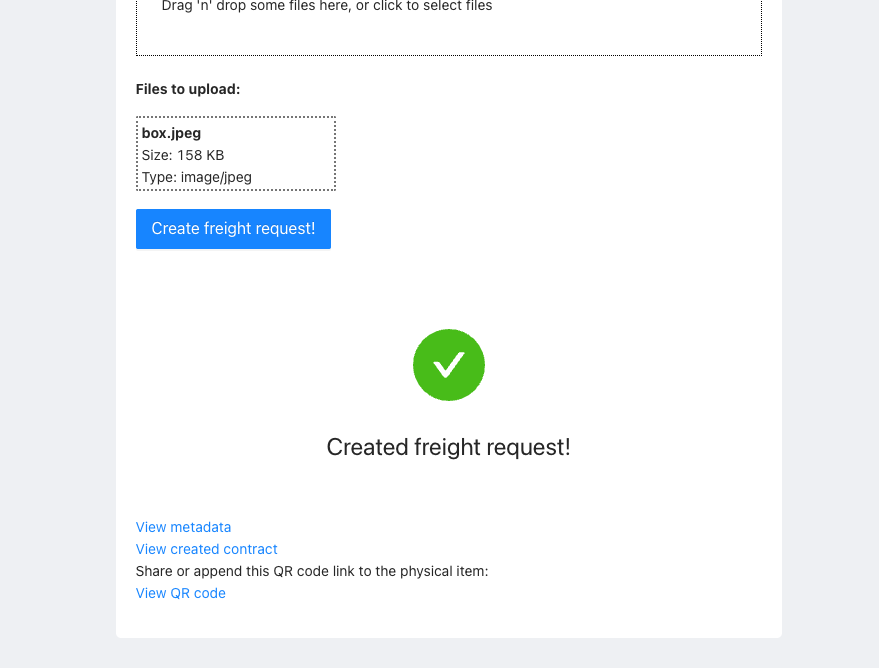
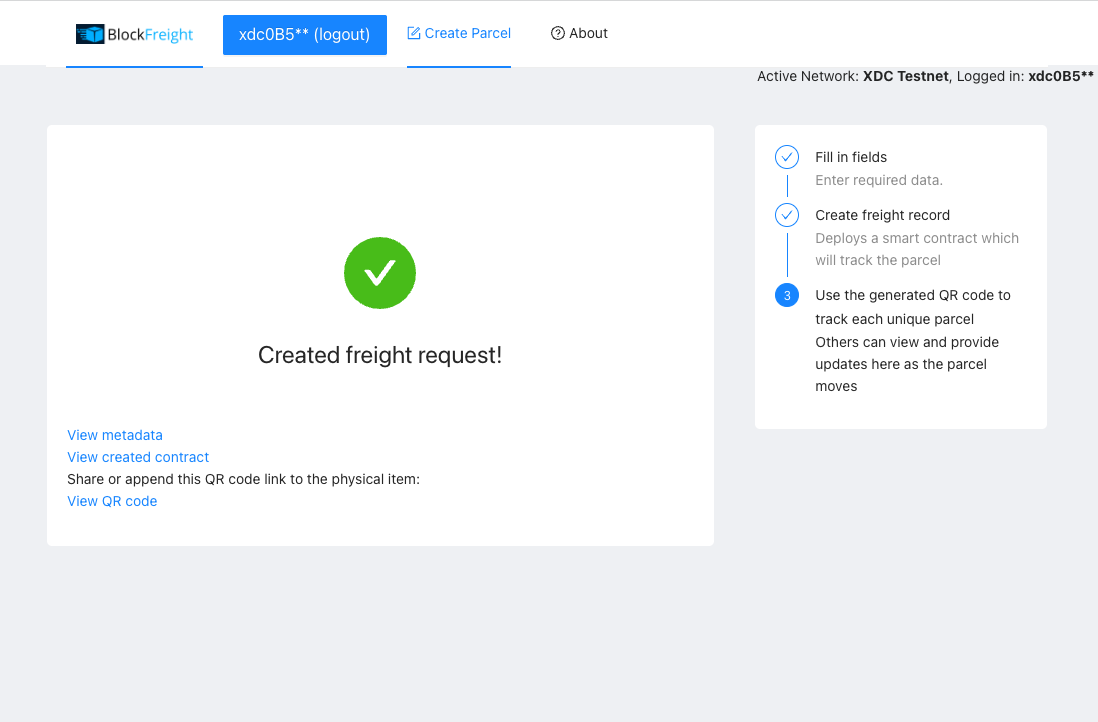
update images and update page

diff --git a/src/components/Lookup.js b/src/components/Lookup.js
@@ -1,4 +1,4 @@
-import { Button, Result, Spin } from 'antd'
+import { Button, Card, Result, Spin } from 'antd'
 import TextArea from 'antd/lib/input/TextArea'
 import React, { useState, useEffect } from 'react'
 import { useParams } from 'react-router'
@@ -13,7 +13,7 @@ export default function Lookup({ walletLoading, connect, address, provider }) {
 
   const [error, setError] = useState()
   const [result, setResult] = useState()
-  const [loading, setLoading] = useState(false)
+  const [loading, setLoading] = useState(true)
   const [parcel, setParcel] = useState()
   const [location, setLocation] = useState()
   const [data, setData] = useState({ ...EXAMPLE_FORM })
@@ -42,7 +42,7 @@ export default function Lookup({ walletLoading, connect, address, provider }) {
 
       const res = await recordParcelEvent(provider.getSigner(), contract, data.notes, location?.latitude, location?.longitude)
       res['contractUrl'] = contractUrl
-      console.log('udpate result', res)
+      console.log('contract update result', res)
       setResult(res)
     } catch (e) {
       console.error('Error recording update', e)
@@ -59,7 +59,7 @@ export default function Lookup({ walletLoading, connect, address, provider }) {
       const res = await getMetadata(ipfsUrl(itemId))
       setParcel(res?.data || {})
     } catch (e) {
-      console.error('error fetching record', e)
+      console.error('Error fetching record', e)
       let { message } = e
       setError(humanError(message))
     } finally {
@@ -79,7 +79,7 @@ export default function Lookup({ walletLoading, connect, address, provider }) {
     return <Spin size="large" className='boxed' />
   }
 
-  if (error) {
+  if (error || !parcel) {
     return <div className='error-text boxed'>
       {error}
     </div>
@@ -88,13 +88,12 @@ export default function Lookup({ walletLoading, connect, address, provider }) {
   const isReady = !loading && address && provider;
 
   return (
-    <div className='boxed'>
+    <Card title={<h3 className='centered success-text bold'>Parcel Details</h3>} bordered={false}>
       {!result && <div>
-        {parcel && <div>
-          <h5 className='success-text'>Found Parcel</h5>
+        <div>
           <h2>{parcel.title}</h2>
-          {parcel.notes && <p>{parcel.notes}</p>}
-        </div>}
+          {parcel.notes && <p>Notes: {parcel.notes}</p>}
+        </div>
         {/* {location && JSON.stringify(location)} */}
         {parcel?.files && <span>
           <h3>Original Image(s):</h3>
@@ -120,6 +119,7 @@ export default function Lookup({ walletLoading, connect, address, provider }) {
 
         <br />
         <br />
+        <p>Your current location will be uploaded with your update.</p>
         {isReady && <Button type="primary" size="large" loading={loading} onClick={recordUpdate}>
           Submit update
         </Button>}
@@ -127,6 +127,7 @@ export default function Lookup({ walletLoading, connect, address, provider }) {
         {!address && <span className="web3-button">
           <Button onClick={connect} disabled={loading} loading={walletLoading}>Connect Wallet</Button>
         </span>}
+        {error && <p className='error-text'>{error}</p>}
       </div>}
       {result && <Result status="success" title="Event recorded!"
         subTitle={<span>TX: <a target="_blank" href={getExplorerUrl(result.hash, true)}>{result.hash}</a></span>}
@@ -137,7 +138,6 @@ export default function Lookup({ walletLoading, connect, address, provider }) {
             View updated contract
           </Button>,
         ]} />}
-
-    </div>
+    </Card>
   )
 }

diff --git a/src/components/CreateFreight.js b/src/components/CreateFreight.js
@@ -11,7 +11,7 @@ const { Step } = Steps;
 
 function CreateFreight({ address, provider }) {
 
-  const [data, setData] = useState({ ...EXAMPLE_FORM });
+  const [data, setData] = useState({});
   const [error, setError] = useState();
   const [loading, setLoading] = useState(false);
   const [result, setResult] = useState();
@@ -47,7 +47,7 @@ function CreateFreight({ address, provider }) {
     const body = { ...data };
 
     // Format files for upload.
-    const files = body.files.map((x) => {
+    const files = (body || []).files.map((x) => {
       return x;
     });
 
@@ -97,6 +97,10 @@ function CreateFreight({ address, provider }) {
           <div className="create-form white boxed">
             {!result && (<div>
               <h2>Create new freight request</h2>
+              <a href="#" onClick={e => {
+                e.preventDefault();
+                setData({ ...EXAMPLE_FORM });
+              }}>Set example data</a>
               <br />
 
               <h3 className="vertical-margin">Freight request name:</h3>
@@ -120,7 +124,7 @@ function CreateFreight({ address, provider }) {
               {/* TODO: add configurable amount of items */}
               <h3 className="vertical-margin">Optional: Upload image(s) of parcel</h3>
               <FileDrop
-                files={data.files}
+                files={data.files || []}
                 setFiles={(files) => updateData("files", files)}
               />
 

diff --git a/src/constants/index.js b/src/constants/index.js
@@ -7,8 +7,8 @@ export const IS_LOCAL = hostname.indexOf("localhost") !== -1
 export const COVALENT_KEY = process.env.REACT_APP_COVALENT_KEY; // covalent api key
 
 export const EXAMPLE_FORM = {
-    'title': 'Package 12345',
-    'notes': '',
+    'name': 'Package delivery from Boston to San Francisco',
+    'notes': 'This package is a delivery to our SF warehouse. It contains a new laptop and a new phone. Please be careful with it. REF #123',
     'files': []
 }
 export const WEB3_PROJECT_ID = process.env.REACT_APP_WC_ID || 'ec17b7971a950170d6c5710eb878ba9b';
@@ -28,10 +28,10 @@ export const CHAIN_OPTIONS = {
     name: "XDC Testnet",
     network: "XDC Testnet",
     symbol: "TXDC",
-    rpc: "https://erpc.xinfin.network",
-    rpcUrls: {default: "https://erpc.xinfin.network"},
-    // rpc: "https://erpc.apothem.network",
-    // rpcUrls: {default: "https://erpc.apothem.network"},
+    // rpc: "https://erpc.xinfin.network",
+    // rpcUrls: {default: "https://erpc.xinfin.network"},
+    rpc: "https://erpc.apothem.network	",
+    rpcUrls: {default: "https://erpc.apothem.network	"},
     url: "https://explorer.apothem.network/",
     blockExplorers: {default: "https://explorer.apothem.network/"},
     id: 51

diff --git a/src/App.js b/src/App.js
@@ -69,11 +69,11 @@ function App() {
       /**********************************************************/
       /* Handle chain (network) and chainChanged (per EIP-1193) */
       /**********************************************************/
-      // const chainId = await window.ethereum.request({ method: 'eth_chainId' });
-      // if (parseInt(chainId, 16) !== ACTIVE_CHAIN.id) {
-      //   alert(`Please connect to ${ACTIVE_CHAIN.name} network`);
-      //   return;
-      // }
+      const chainId = await window.ethereum.request({ method: 'eth_chainId' });
+      if (parseInt(chainId, 16) !== ACTIVE_CHAIN.id) {
+        alert(`Please connect to ${ACTIVE_CHAIN.name} network`);
+        return;
+      }
 
       const ethersProvider = new ethers.providers.JsonRpcProvider(ACTIVE_CHAIN.rpc);
       setProvider(ethersProvider)

diff --git a/src/components/FileDrop/FileDrop.js b/src/components/FileDrop/FileDrop.js
@@ -49,7 +49,7 @@ export function FileDrop({ files, setFiles }) {
     },
   });
 
-  const thumbs = files.map((file) => (
+  const thumbs = (files || []).map((file) => (
     <div style={thumb} key={file.name}>
       {file.preview && <img src={file.preview}/>}
       <div style={thumbInner} className='thumb-detail'>

diff --git a/src/App.css b/src/App.css
@@ -32,6 +32,10 @@
   background: white;
 }
 
+.bold {
+  /* font-weight: 600; */
+}
+
 .boxed {
   padding: 20px;
   border-radius: 5px;
@@ -52,6 +56,10 @@
 
 .web3-button {
   margin-top: 12px;;
+}
+
+.ant-card-head-title {
+  display: inline-flex;
 }
 
 .success-text {

diff --git a/README.md b/README.md
@@ -84,11 +84,8 @@ Blockfreight should now be running on port 3000.
 ### Connecting wallet for contract deployment
 <img src="./img/wallet.png" width=800 />
 
-### Confirm contract creation
-<img src="./img/confirm.png" width=800 />
-
 ### Contract created!
-<img src="./img/contract1.png" width=800 />
+<img src="./img/created.png" width=800 />
 
 ### IPFS record on contract creation
 <img src="./img/ipfs.png" width=800 />
@@ -105,14 +102,11 @@ Blockfreight should now be running on port 3000.
 ### Providing a freight contract update
 <img src="./img/update.png" width=800 />
 
-### Freight update transaction added to contract record
-<img src="./img/contract2.png" width=800 />
+### Viewing freight update history on the XDC smart contracct
+<img src="./img/contract.png" width=800 />
 
-### Freight update event is emitted from the contract
-<img src="./img/event.png" width=800 />
-
-### Freight history lookup
-<img src="./img/history.png" width=800 />
+### About page
+<img src="./img/about.png" width=800 />
 
 
 
